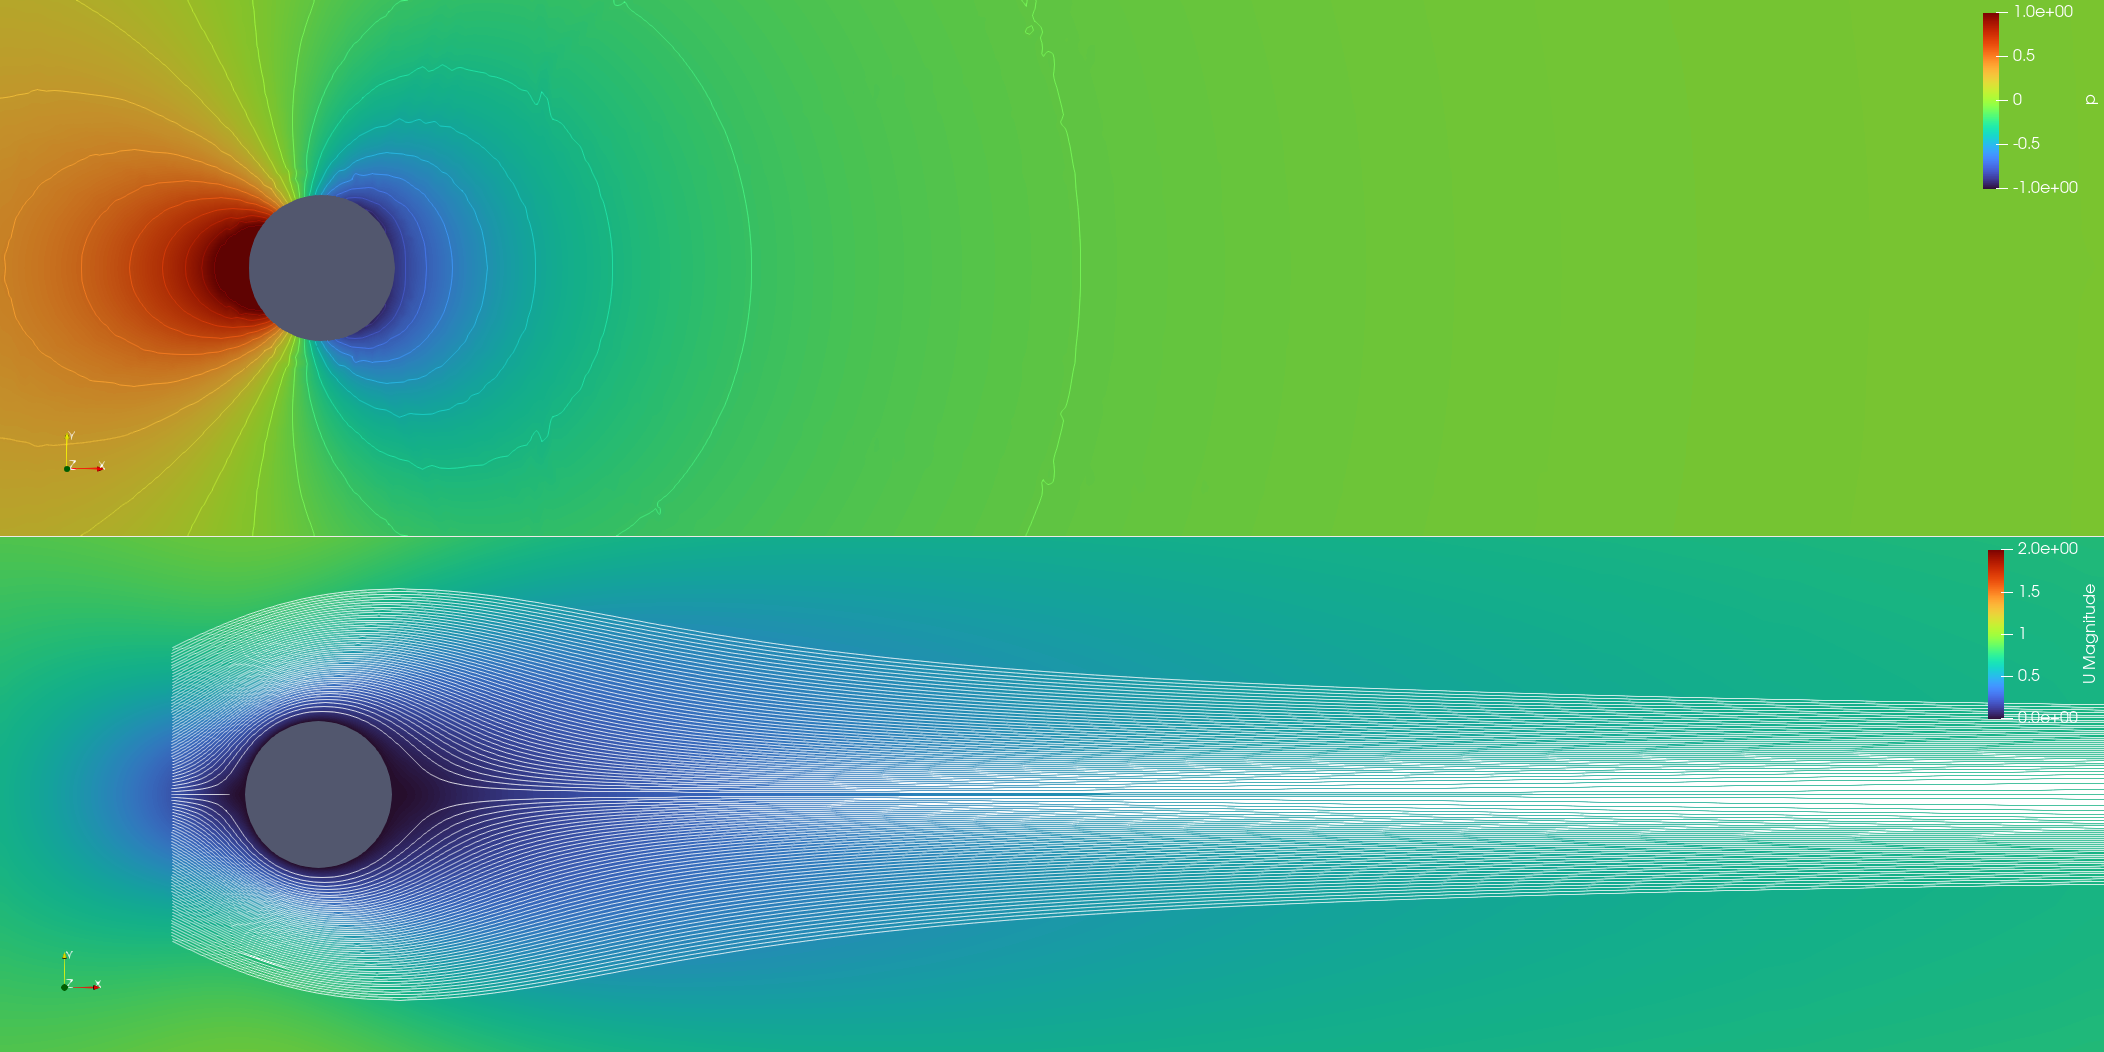
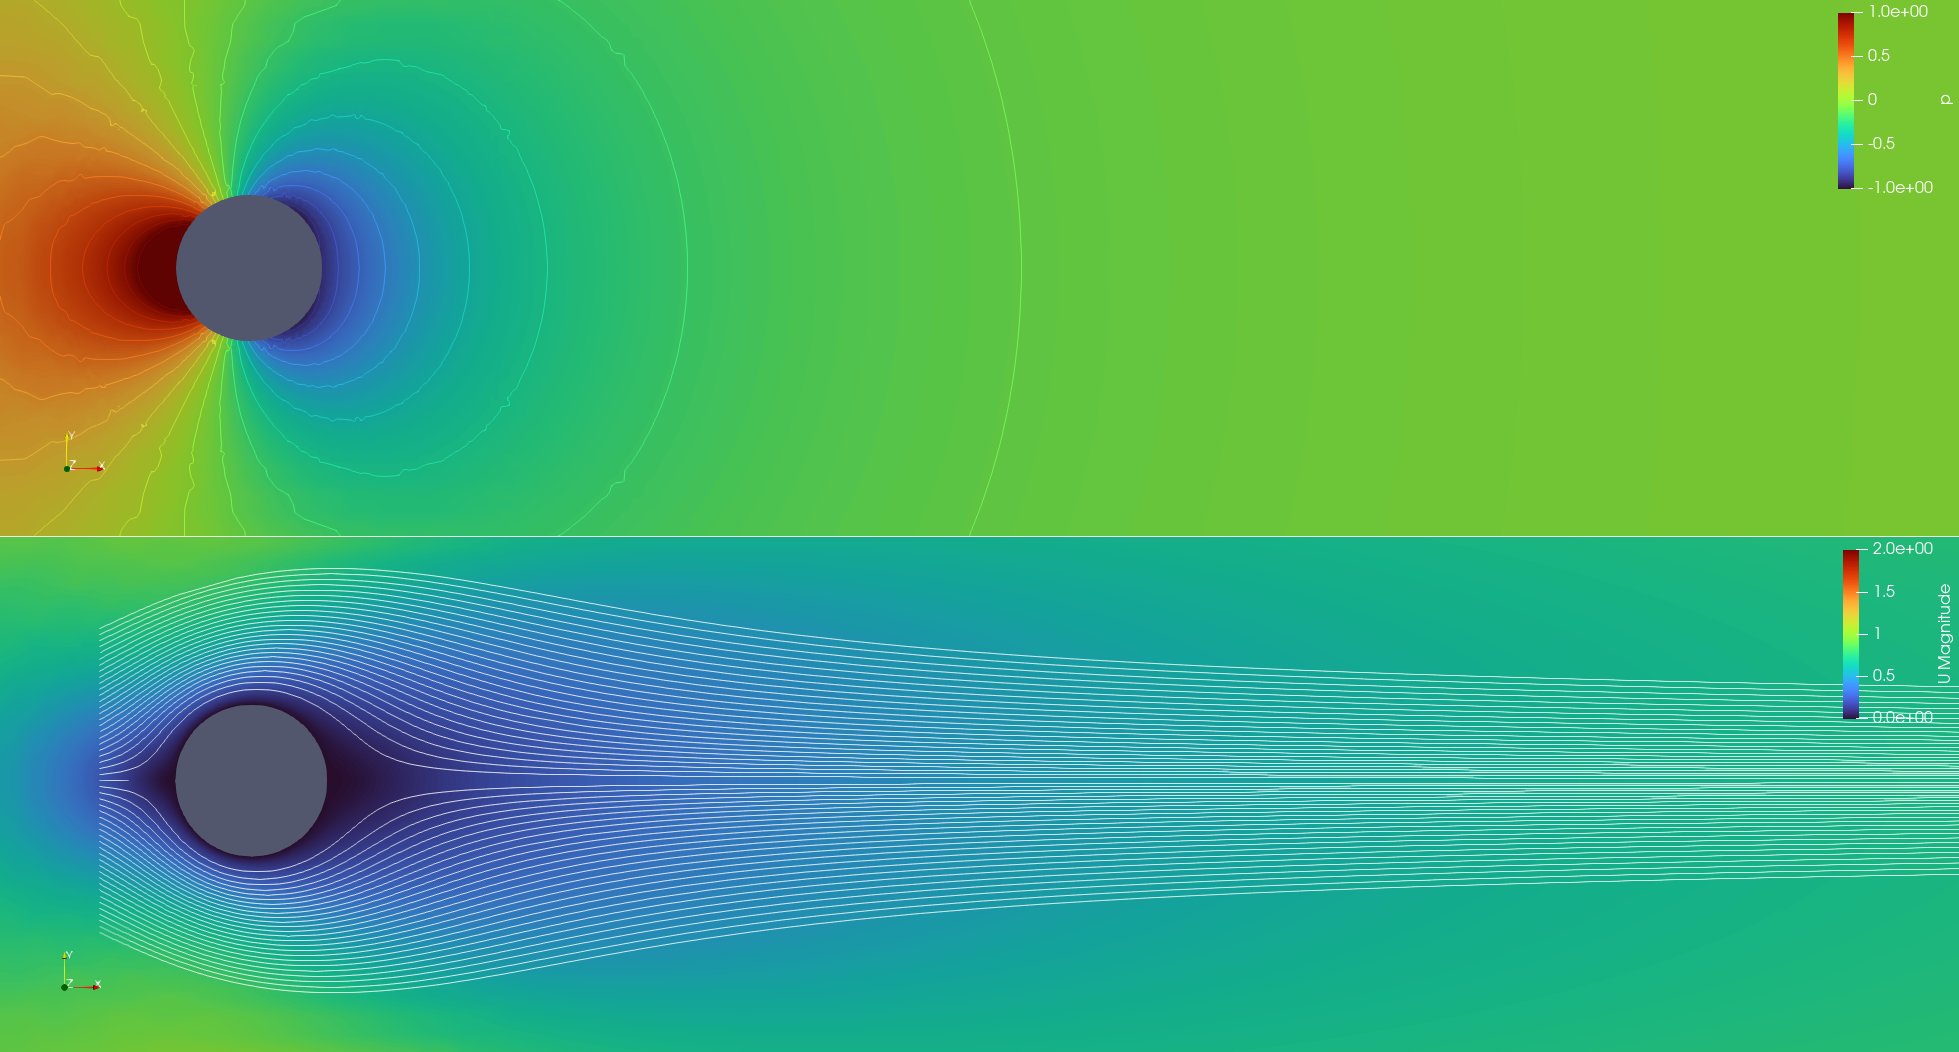
Update 2D cylinder readme for new configuration and turbulence
- Updates all results for the Re 2, 20, and 200 cases to reflect the new 
mesh and numerical config
- Adds results for the turbulence case
- Update the time and mesh dependence study to be for the Re=3e3 case

Changed region(s): [[0.0, 0.0, 1.0, 0.9734], [0.9342, 0.0, 0.9964, 0.1825], [0.0311, 0.9125, 0.0623, 0.943]]

diff --git a/2d_cylinder_vortex_shedding/scripts/dependence_plots.m b/2d_cylinder_vortex_shedding/scripts/dependence_plots.m
@@ -1,33 +1,41 @@
 % Generates plots of Cd and Cl values from grid and time dependence studies
+n_cells = [13250, 33032, 110318, 414412];
+mesh_Cd_mean = [0.9336, 1.4656, 1.6464, 1.5939];
+mesh_Cd_amp = [0.0348, 0.2012, 0.2430, 0.2496];
+mesh_Cl_amp = [0.6730, 1.4031, 1.5818, 1.5675];
 
-% All data from dependence studies
-dx = [0.0625; 0.0625; 0.0625; 0.0625; 0.0625; 0.0625; 0.03125; 0.03125; 0.03125; 0.03125; 0.03125; 0.015625; 0.015625; 0.015625; 0.015625];
-dt = 1000 * [0.04; 0.02; 0.01; 0.005; 0.0025; 0.00125; 0.02; 0.01; 0.005; 0.0025; 0.00125; 0.01; 0.005; 0.0025; 0.00125];
-Cd_mean = [1.3533; 1.3372; 1.3274; 1.3218; 1.3193; 1.3179; 1.3599; 1.3520; 1.3469; 1.3442; 1.3429; 1.3528; 1.3492; 1.3469; 1.3456];
-Cd_amp = [0.0514; 0.0455; 0.0415; 0.0393; 0.0385; 0.0382; 0.0518; 0.0485; 0.0464; 0.0453; 0.0450; 0.0487; 0.0469; 0.0460; 0.0454];
-Cl_amp = [0.7291; 0.6826; 0.6530; 0.6375; 0.6300; 0.6257; 0.7344; 0.7093; 0.6947; 0.6868; 0.6829; 0.7112; 0.6990; 0.6917; 0.6877];
-
-% Find which data points correspond to each mesh size
-idx_coarse = dx == 0.0625;
-idx_medium = dx == 0.03125;
-idx_fine = dx == 0.015625;
+dt = [0.02, 0.01, 0.005, 0.0025, 0.00125];
+dt_Cd_mean = [1.5865, 1.6562, 1.6464, 1.6439, 1.6415];
+dt_Cd_amp = [0.3346, 0.2423, 0.2430, 0.2382, 0.2376];
+dt_Cl_amp = [1.5989, 1.5913, 1.5818, 1.5742, 1.5709];
 
 % Iterate through each mesh size plotting Cd and Cl data
-f = figure(1);
+plot_y_names = {'C_D Mean', 'C_D Amplitude', 'C_L Amplitude'};
+
+f1 = figure(1);
 clf;
 
-plot_data = {Cd_mean, Cd_amp, Cl_amp};
-plot_y_names = {'C_D Mean', 'C_D Amplitude', 'C_L Amplitude'};
+plot_data = {mesh_Cd_mean, mesh_Cd_amp, mesh_Cl_amp};
 for i=1:3
     subplot(3, 1, i);
-    semilogx(dt(idx_coarse), plot_data{i}(idx_coarse), 'k^:', ...
-        dt(idx_medium), plot_data{i}(idx_medium), 'ro--', ...
-        dt(idx_fine), plot_data{i}(idx_fine), 'bx-');
+    semilogx(n_cells, plot_data{i}, '-o');
 
     grid on;
-    xlabel('Time Step [ms]');
+    xlabel('Mesh Size [cells]');
     ylabel(plot_y_names{i});
-    legend({'Coarse', 'Medium', 'Fine'}, 'Location', 'southeast');
 end
 
-waitfor(f);
+f2 = figure(2);
+clf;
+
+plot_data = {dt_Cd_mean, dt_Cd_amp, dt_Cl_amp};
+for i=1:3
+    subplot(3, 1, i);
+    semilogx(dt, plot_data{i}, '-o');
+
+    grid on;
+    xlabel('Time Step [s]');
+    ylabel(plot_y_names{i});
+end
+
+waitfor(f1);

diff --git a/2d_cylinder_vortex_shedding/README.md b/2d_cylinder_vortex_shedding/README.md
@@ -2,21 +2,21 @@
 
 This is an OpenFOAM simulation for airflow over a 2 dimensional cylinder under various Reynolds numbers with steady state or transient behaviours. Below you can find results for each flow regime, a grid and time dependence study, and other notes about various experiments.
 
-![Re_200_p_vorticity](img/Re_200_p_vorticity.gif)
+![Re_3e3_p_vorticity](img/Re_3e3_p_vorticity.gif)
 
 [OpenFOAM Version 11](https://openfoam.org/version/11/) was used.
 
 [Octave](https://octave.org/) is also used for some data processing.
 
 ## Scenario Overview
-The simulated domain is 50 m long and 40 m wide, with the cylinder 20 m from the front and along the centerline.
+The simulated domain is 65 m long and 30 m wide, with the cylinder 15 m from the front and along the centerline.
 
 **Simulation Properties:**
 * Medium: Air
 * Flow Model: Incompressible
 * Solver: PIMPLE
-* Mesh Cells: 57k
-* Reynolds Numbers: 2, 20, 200
+* Mesh Cells: 110k
+* Reynolds Numbers: 2, 20, 200, 3e3
 
 **Boundary Conditions:**
 
@@ -24,19 +24,22 @@ The simulated domain is 50 m long and 40 m wide, with the cylinder 20 m from the
 |-|-|-|-|-|
 | Pressure | Zero Gradient | 0 [Pa] | Symmetry | Zero Gradient |
 | Velocity | 1.0 m/s | Zero Gradient | Symmetry | No Slip |
+| k | Fixed | Zero Gradient | Symmetry | kqRWallFunction |
+| omega | Fixed | Zero Gradient | Symmetry | omegaWallFunction |
+| nut | Calculated | Calculated | Symmetry | nutUSpaldingWallFunction |
 
 A freestream velocity of 1.0 m/s was used across all scenarios while kinematic viscosity was varied to achieve target Reynolds numbers.
 
 **Mesh:**  
-* Cells: 57,332
+* Cells: 110k
 * Background cell size: 0.5 m
-* Refinement levels: 4
-* Surface layers: 10
-* Smallest cell size: 0.03125 m (assuming square cell)
+* Refinement levels: 5
+* Surface layers: 5
+* Smallest cell size: 0.015625 m (assuming a square cell)
 
 The hexahedral mesh was generated with `snappyHexMesh` using a background mesh generated with `blockMesh` and an STL file of the cylinder (under `constant/geometry`). The resulting 3D mesh was then extruded to 2D using the `extrudeMesh` utility.
 
-The mesh was modelled after the example in *Section 9.12.2* of [1].
+Several refinement regions were added around and behind the cylinder, with each refinement region getting progressively wide and more coarse with increasing distance from the cylinder.
 
 ![mesh_full](img/mesh_full.png)
 
@@ -44,7 +47,7 @@ The mesh was modelled after the example in *Section 9.12.2* of [1].
 
 ![mesh_courant](img/mesh_courant.png)
 
-The final image shows the Courant number in each cell from an Re=200 simulation.
+The final image shows the Courant number in each cell from an Re=3e3 simulation.
 
 See the [Grid and Time Step Dependence](#Grid-and-Time-Step-Dependence) section for an analysis on grid sizing.
 
@@ -54,7 +57,7 @@ See the [Grid and Time Step Dependence](#Grid-and-Time-Step-Dependence) section 
 * Flow: Laminar, steady state
 * Time Step: 1
 * Duration: 1.5e4
-* Cd: 7.255
+* Cd: 7.4850
 
 At Re=2 the flow is creeping and has no separation around the cylinder.
 
@@ -63,8 +66,8 @@ At Re=2 the flow is creeping and has no separation around the cylinder.
 ### Re=20
 * Flow: Laminar, steady state
 * Time Step: 1
-* Duration: 1e4
-* Cd: 2.070
+* Duration: 1.5e4
+* Cd: 2.1015
 
 At Re=20 there begins to be some separation around the trailing half of the cylinder producing two circulation zones directly behind the cylinder. The flow is still symmetrical and non-oscillatory.
 
@@ -72,10 +75,10 @@ At Re=20 there begins to be some separation around the trailing half of the cyli
 
 ### Re=200
 * Flow: Laminar, transient
-* Time Step: 0.01 s
+* Time Step: 0.005 s
 * Duration: 60.0 s
-* Cd: 1.3511 +/-0.0481 (min=1.3030, max=1.3993)
-* Cl: 0.0005 +/-0.7078 (min=-0.7072, max=0.7083)
+* Cd: 1.3565 +/- 0.0465 (min=1.3099, max=1.4030)
+* Cl: 0.0000 +/- 0.6973 (min=-0.6973, max=0.6972)
 
 At Re=200 the flow become oscillatory. The pressure distribution on each side of the cylinder is no longer symmetric, and instead the lowest pressure zone and separation points shift from side to side creating series of trailing vortices known as a vortex street.
 
@@ -83,11 +86,36 @@ Initially the flow will look similar to the Re=20 case (i.e. steady state), but 
 
 The resulting drag and lift coefficients are in close agreement with the values from *Section 9.12.2* of [1]. Although [1] doesn't quote exact values, the plots indicate Cd values in the range [1.302, 1.398] and Cl values in the range [-0.70, 0.70].
 
-The results quoted here are for an *intermediate* mesh and time step size, one that is not prohibitively expensive to compute. See the [Grid and Time Step Dependence](#Grid-and-Time-Step-Dependence) section for results for the Re=200 case with finer mesh and time step sizes.
+The results quoted here are for an *medium* mesh and time step size (see the [Grid and Time Step Dependence](#Grid-and-Time-Step-Dependence) section for grid data)
 
-![Re_200_p_U](img/Re_200_p_U.gif)
+![Re_200_p](img/Re_200_p.png)
+
+![Re_200_U](img/Re_200_U.png)
+
+![Re_200_vorticity](img/Re_200_vorticity.png)
 
 ![force_coeffs_Re_200](img/force_coeffs_Re_200.png)
+
+### Re=3e3
+* Flow: Turbulent, transient
+* Time Step: 0.005 s
+* Duration: 60.0 s
+* Cd: 1.6464 +/- 0.2430 (min=1.4035, max=1.8894)
+* Cl: 0.0048 +/- 1.5818 (min=-1.5770, max=1.5866)
+
+At Re=3e3 the flow behaves similarly to the Re=200 case except the flow is fully turbulent.
+
+![Re_3e3_p](img/Re_3e3_p_U.gif)
+
+![Re_3e3_vorticity](img/Re_3e3_vorticity.png)
+
+![Re_3e3_k](img/Re_3e3_k.png)
+
+![Re_3e3_omega](img/Re_3e3_omega.png)
+
+![Re_3e3_nut](img/Re_3e3_nut.png)
+
+![force_coeffs_Re_3e3](img/force_coeffs_Re_3e3.png)
 
 ## Running The Simulation
 There are a set of scripts under the `scripts` directory for running everything. All scripts accept a `-c` option to clear existing data as well as a `-j <CORES>` option for parallelization. Run any script with the `-h` option for usage.
@@ -118,11 +146,19 @@ The simulation is configured to easily switch between flow regimes by altering t
 The main entries to vary are:
 ```
 // Configuration parameters
-Re 200;
+Re 3e3;
 transient true;
+turbulence true;
 
-dt 0.01;
-dt_write 60.0;
+// Turbulence intensity and viscosity ratio
+Tu 0.01;
+TVR 0.20;
+
+// Time step and write
+dt 0.005;
+dt_first_write 60.0;
+dt_write 0.20;
+dt_force_write $dt;
 t_end 60.0;
 ```
 
@@ -157,59 +193,47 @@ Force Coefficient Results:
     Cl=0.0005 +/-0.7078 (min=-0.7072, max=0.7083)
 ```
 
-To save a batch of results (no mesh or field data):
+To save a batch of results (no data) starting from time point `t=0` (no mesh or field data):
 ```bash
-./scripts/save_results.sh my_experiment
+./scripts/save_results.sh my_experiment 0
 ```
 This will copy plots and log data to a new folder under the `results` directory. Use the `-h` option to see more usage information.
+
+To save all the data and initial conditions for simulation run:
+```bash
+./scripts/save_data.sh my_experiment
+```
 
 ## Additional Details
 
 ### Grid and Time Step Dependence
-Grid and time dependence was analyzed for the Re=200 case, the results of which are below.
+Grid and time dependence was analyzed for the Re=3e3 case, the results of which are below.
 
-The mesh was altered by changing the size of the background mesh cells while performing 4 levels of refinement. Cell sizes quoted here refer to the size after refining the background mesh. Three mesh sizes were considered:
-* Coarse: dx=0.0625, 17k cells
-* Medium: dx=0.03125, 57k cells
-* Fine: dx=0.015625, 209k cells
+The mesh was altered by changing the maximum number of refinement levels. The background mesh cell size was kept at 0.50 m. Cell sizes quoted here refer to the size after refining the background mesh. Four mesh sizes were considered:
+* Extra Coarse: dx=0.0625, 13k cells
+* Coarse: dx=0.0625, 33k cells
+* Medium: dx=0.03125, 110k cells
+* Fine: dx=0.015625, 414k cells
 
-Time steps were varied from the smallest value of 0.00125 seconds and increased as long as the Courant number remained below 2 for that particular mesh size.
+For each mesh size the simulation was run for 60.0 seconds. The time step size was adjust to keep the Courant number constant relative to the medium mesh with a time step size of 0.005 seconds (e.g. for the Coarse mesh the step size was 0.010 seconds).
 
-Process for dependence studies:
+For the time dependence study the medium mesh size was used with varying time step sizes of 4x, 2x, 0.5x, and 0.25x. The simulation process was:
 1. Mesh at desired cell size
-1. Simulate at the largest time step for 60 seconds
-1. Halve the time step, simulate for an additional 20 seconds
-1. Repeat step 3 for all desired time steps
-1. Repeat steps 1-4 for all desired mesh sizes
+1. Simulate at the nominal time step (0.005) for 60 seconds
+1. Scale the time step, simulate for an additional 20 seconds
+1. Evaluate the final 5.0 seconds for force coefficient data
+1. Repeat steps 1-4 for all desired time step sizes
 
 The plot below shows the change in the drag coefficient mean value and amplitude and the lift coefficient amplitude for all mesh and time step combinations.
 
 Key Takeaways:
-* The medium mesh with a time step of 0.01 seconds provides a good compromise between accuracy and computational demand. The error is only ~0.5% compared to the finest mesh and smallest time step size considered.
-* The results appear to vary quadratically with both time step size and mesh size, as expected with second-order discretization schemes
+* The medium mesh with a time step of 0.005 seconds provides a reasonable compromise between accuracy and computational demand.
+* Force coefficients appear to vary in an approximately quadratic fashion with respect to mesh size and time. Although for some settings there is some overshoot.
 * The range of mesh sizes and time step sizes considered seems appropriate, it clearly indicates a convergence towards some final value while the magnitude of difference between configuations is large enough that one can make decisions on how to balance computational cost vs. accuracy (coefficient changes of 0.5 between configurations is not helpful, neither are changes of 1e-5).
 
-![dependence_study](img/dependence_study.png)
+![dependence_study_mesh](img/dependence_study_mesh.png)
 
-The complete data from all runs is below:
-
-| Min Cell Size [m] | Cells | Time Step [s] | Cd | Cl | Co Max |
-|-|-|-|-|-|-|
-| 0.0625 | 17,392 | 0.04 | 1.3533 +/- 0.0514 | 0.0000 +/- 0.7291 | 1.123 |
-| 0.0625 | 17,392 | 0.02 | 1.3372 +/- 0.0455 | 0.0001 +/- 0.6826 | 0.570 |
-| 0.0625 | 17,392 | 0.01 | 1.3274 +/- 0.0415 | 0.0004 +/- 0.6530 | 0.287 |
-| 0.0625 | 17,392 | 0.005 | 1.3218 +/- 0.0393 | 0.0006 +/- 0.6375 | 0.141 |
-| 0.0625 | 17,392 | 0.0025 | 1.3193 +/- 0.0385 | 0.0008 +/- 0.6300 | 0.070 |
-| 0.0625 | 17,392 | 0.00125 | 1.3179 +/- 0.0382 | 0.0004 +/- 0.6257 | 0.035 |
-| 0.03125 | 57,332 | 0.02 | 1.3599 +/- 0.0518 | 0.0001 +/- 0.7344 | 1.222 |
-| 0.03125 | 57,332 | 0.01 | 1.3520 +/- 0.0485 | 0.0001 +/- 0.7093 | 0.618 |
-| 0.03125 | 57,332 | 0.005 | 1.3469 +/- 0.0464 | -0.0004 +/- 0.6947 | 0.303 |
-| 0.03125 | 57,332 | 0.0025 | 1.3442 +/- 0.0453 | -0.0004 +/- 0.6868 | 0.149 |
-| 0.03125 | 57,332 | 0.00125 | 1.3429 +/- 0.0450 | -0.0002 +/- 0.6829 | 0.073 |
-| 0.015625 | 209,268 | 0.01 | 1.3528 +/- 0.0487 | 0.0003 +/- 0.7112 | 1.719 |
-| 0.015625 | 209,268 | 0.005 | 1.3492 +/- 0.0469 | -0.0004 +/- 0.6990 | 0.852 |
-| 0.015625 | 209,268 | 0.0025 | 1.3469 +/- 0.0460 | -0.0002 +/- 0.6917 | 0.406 |
-| 0.015625 | 209,268 | 0.00125 | 1.3456 +/- 0.0454 | 0.0003 +/- 0.6877 | 0.199 |
+![dependence_study_time](img/dependence_study_time.png)
 
 ### Inducing Instability
 When the domain is initialized with a uniform velocity field the flow will eventually become oscillatory, but it can take a while for this to occur.
@@ -225,14 +249,14 @@ Alternate perturbations were experimented with, but a 10 degree upstream rotatio
 ### Compute
 An AMD Ryzen9 3900X CPU (12 cores, 3.8 GHz) was used for all computations. The simulation was parallelized with the domain decomposed into 12 partitions.
 
-Measured computation times for various configurations using the Re=200 case with a time step size of 0.010 s, a duration of 60.0 s, and a single write of data at the end.
+Measured computation times for various configurations using the Re=200 case with a time step size of 0.005 s, a duration of 60.0 s, and a single write of data at the end.
 
-| Min Cell Size [m] | Cells | Mesh Time [s] | Simulation Time [s] |
-|-|-|-|-|
-| 0.125 | 4,426 | 7.8 | 25.2 |
-| 0.0625 | 17,392 | 15.5 | 65.1 |
-| 0.03125 | 57,332 | 45.6 | 251.0 |
-| 0.015625 | 209,268 | 163.8 | 1,552.8 |
+| Mesh | Min Cell Size [m] | Cells | Mesh Time [s] | Simulation Time [s] |
+|-|-|-|-|-|
+| Extra Coarse | 0.0625 | 13k | 4.1 | 89.0 |
+| Coarse | 0.03125 | 33k | 9.3 | 150.6 |
+| Medium | 0.015625 | 110k | 71.8 | 740.8 |
+| Fine | 0.007813 | 414k | 673.1 | 7,853.6 |
 
 ## References
 [1] *Computational Methods for Fluid Dynamics (Fourth Edition)* - J. Ferziger, M. Peric, R. Street.
